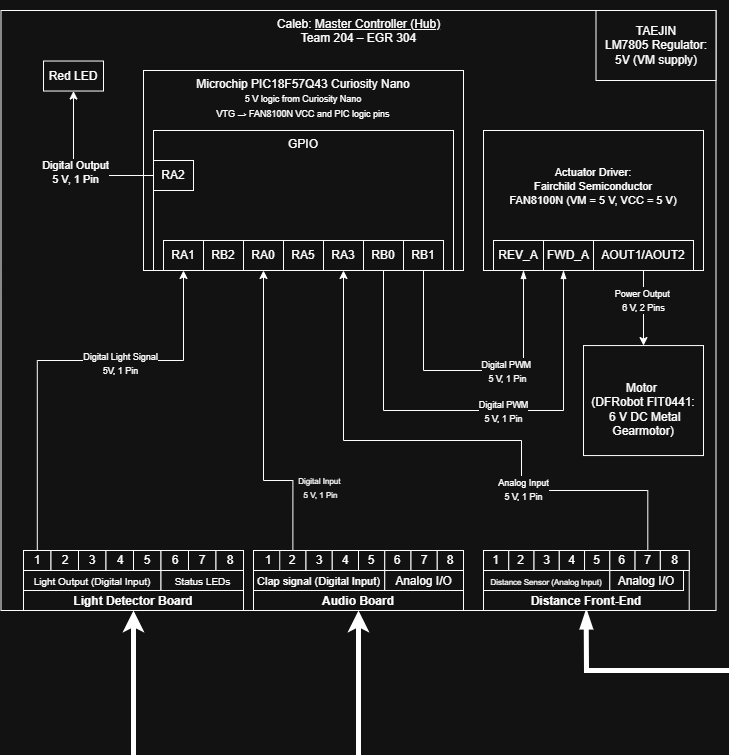
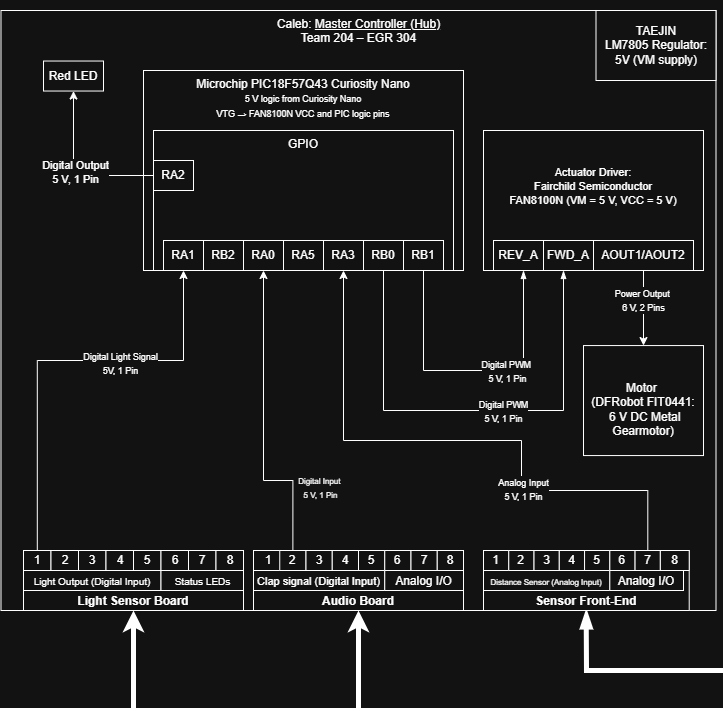
deploy: 63e04ab2245f6ca285c1581c2bcde7ef527fc5a2

diff --git a/01-Block-Diagram/Block-Diagram/index.html b/01-Block-Diagram/Block-Diagram/index.html
@@ -1013,13 +1013,13 @@
 <p><strong>Team 204 – Clap-Activated Smart Light</strong><br>
 <strong>Caleb Yuen – Master Controller (Hub)</strong>  </p>
 <h2 id="overview">Overview</h2>
-<p>This page describes the hardware layout of my subsystem (Hub) for the team clap-activated light project. The Master Controller (PIC18F57Q43 Curiosity Nano) processes sensor data from the Audio, Filter, and Sensor Front-End boards, then drives the actuator to control the lamp output. The design uses an 8-pin ribbon-cable standard for consistent power and signal connections across all subsystems.</p>
+<p>This page describes the hardware layout of my subsystem (Hub) for the team clap-activated light project. The Master Controller (PIC18F57Q43 Curiosity Nano) processes sensor data from the Audio, Light Sensor, and Sensor Front-End boards, then drives the actuator to control the LED output. The design uses an 8-pin ribbon-cable standard for consistent power and signal connections across all subsystems.</p>
 <h2 id="block-diagram">Block Diagram</h2>
 <p><a class="glightbox" data-type="image" data-width="auto" data-height="auto" href="../egr304-team204-block-diagram-hub.png" data-desc-position="bottom"><img alt="Caleb Yuen: Master Controller (Hub) " src="../egr304-team204-block-diagram-hub.png"></a></p>
 <p><strong>Microcontroller:</strong> Microchip PIC18F57Q43 Curiosity Nano  </p>
 <h3 id="power-path">Power Path</h3>
-<p>9 V DC input → LM7805 Regulator → 5 V system rail (+5_SYS)<br>
-All logic runs at 3.3 V internally on the PIC.</p>
+<p>9 V DC input → LM7805 Regulator → 5 V system rail 
+All logic runs at 5 V internally on the PIC.</p>
 <h3 id="inputs">Inputs</h3>
 <table>
 <thead>
@@ -1033,11 +1033,11 @@ All logic runs at 3.3 V internally on the PIC.</p>
 </thead>
 <tbody>
 <tr>
-<td>Light Detector Board</td>
+<td>Light Sensor Board</td>
 <td>RA1_LightOutput</td>
 <td>RA1</td>
 <td>Digital In</td>
-<td>Reads filtered light threshold signal</td>
+<td>Senses outside light to automatically shut off system</td>
 </tr>
 <tr>
 <td>Audio Board</td>
@@ -1047,18 +1047,11 @@ All logic runs at 3.3 V internally on the PIC.</p>
 <td>Detects clap events from Audio Front-End</td>
 </tr>
 <tr>
-<td>Audio Board</td>
-<td>RA5_Analog/A-D</td>
-<td>RA5</td>
-<td>Analog In</td>
-<td>Auxiliary analog line for testing or filter signal</td>
-</tr>
-<tr>
-<td>Distance Front-End</td>
+<td>Sensor Front-End</td>
 <td>RA3_DIST_ADC</td>
 <td>RA3</td>
 <td>Analog In</td>
-<td>Reads distance sensor feedback</td>
+<td>Measures ambient light levels for adaptive brightness</td>
 </tr>
 </tbody>
 </table>
@@ -1074,13 +1067,6 @@ All logic runs at 3.3 V internally on the PIC.</p>
 </tr>
 </thead>
 <tbody>
-<tr>
-<td>Light Detector Board</td>
-<td>RB2_STATUS_LED</td>
-<td>RB2</td>
-<td>Digital Out</td>
-<td>LED feedback to Filter Board</td>
-</tr>
 <tr>
 <td>(H-Bridge)</td>
 <td>RB0_PWM_A / RB1_PWM_B</td>
